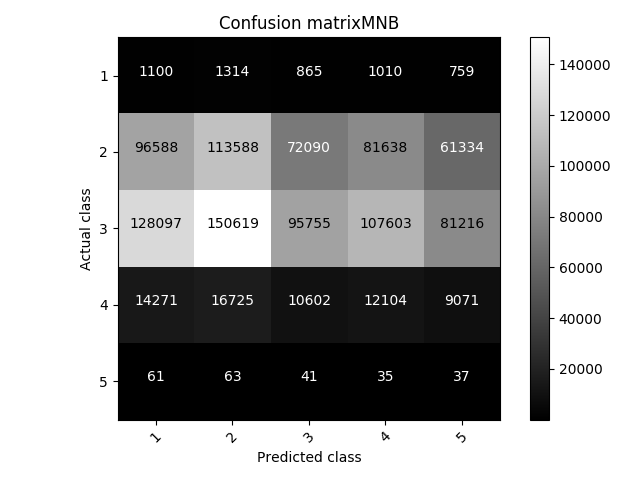
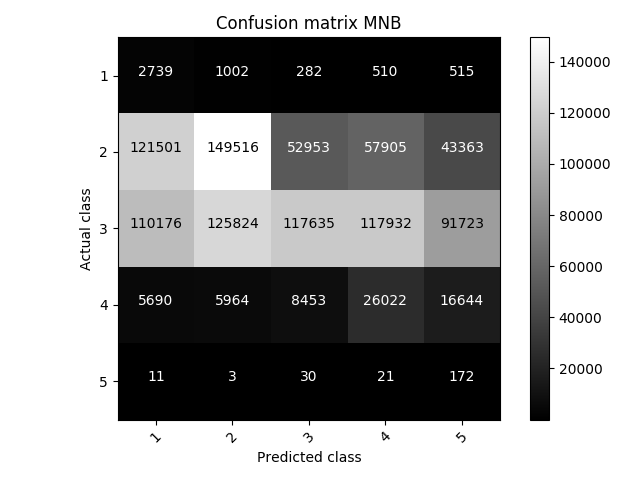
Merge remote-tracking branch 'origin/master'
# Conflicts:
#	dissertacao/output.txt
#	dissertacao/resultados/resultado_19_02.txt

diff --git a/dissertacao/5_5_selecao_modelo.py b/dissertacao/5_5_selecao_modelo.py
@@ -21,9 +21,9 @@ def plot_confusion_matrix(cm, nome, classes,
     if normalize:
         cm = cm.astype('float') / cm.sum(axis=1)[:, np.newaxis]
         np.set_printoptions(precision=2)
-        nome_arquivo = 'matriz_confusao_normalizada_' + nome + '_smoteenn.png'
+        nome_arquivo = 'matriz_confusao_normalizada_' + nome + '_smote.png'
     else:
-        nome_arquivo = 'matriz_confusao_' + nome + '_smoteenn.png'
+        nome_arquivo = 'matriz_confusao_' + nome + '_smote.png'
 
     plt.imshow(cm, interpolation='nearest', cmap=cmap)
     plt.title(title)
@@ -49,11 +49,11 @@ def plot_confusion_matrix(cm, nome, classes,
 
 
 matriz_confusao = np.array(
-[[  4001,    838,    122,     85,      2],
- [ 17561, 291800,  98334,  17504,     39],
- [  8233, 149992, 335089,  69731,    245],
- [   361,   1855,   6471,  53746,    340],
- [     2,      1,      2,     66,    166]]
+[[   101,   2108,   2297,    541,      1],
+ [  8771, 176870, 193846,  45499,    252],
+ [ 11455, 235050, 256431,  60006,    348],
+ [  1322,  26074,  28541,   6796,     40],
+ [     8,     89,     93,     43,      4]]
 )
 # nome = 'MNB'
 # nome = 'RFC'
